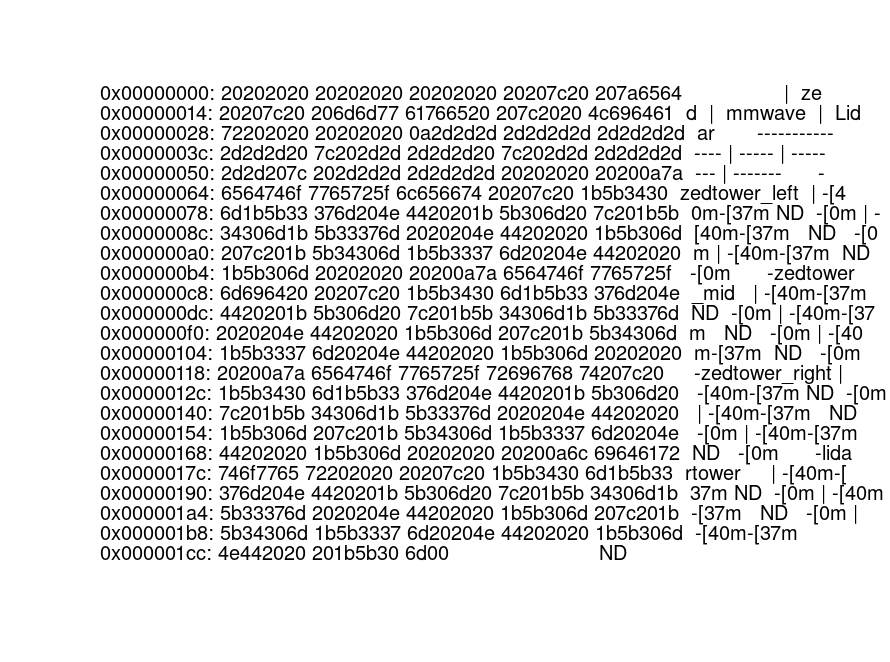
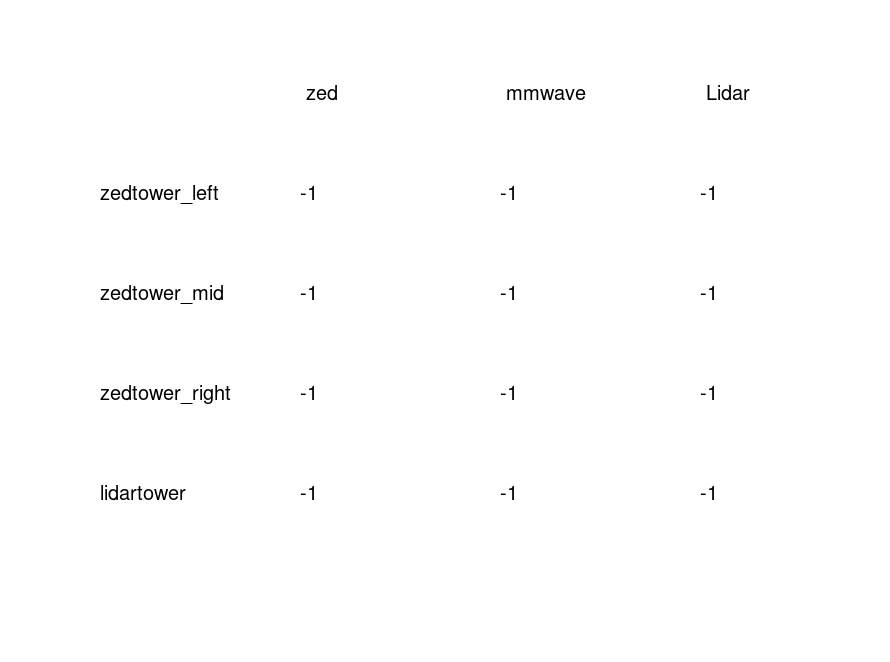
add table into img

Changed region(s): [[0.091, 0.1208, 1.0, 0.8459], [0.9404, 0.1511, 0.9708, 0.1813], [0.8191, 0.2115, 0.8494, 0.2417]]

diff --git a/health/wamv/command.py b/health/wamv/command.py
@@ -20,6 +20,7 @@ import threading
 
 from wand.image import Image
 from wand.drawing import Drawing
+#import cv2
 #import roslibpy
 #from utils.duckiepond_utils import find_duckiepond_devices_yaml, dp_print_boats
 
@@ -146,13 +147,34 @@ class WamvListener:
         print("ARG define command : dts health wamv")
         print()
         print(format_matrix(header, data, "{:^{}}", "{:<{}}", "{:>{}}", "\n", " | "))
+        #im = cv2.imread('black.jpg', 1)
+        #font = cv2.FONT_HERSHEY_SIMPLEX
+        #cv2.putText(im, 'Christmas', (10,450), font, 3, (0, 255, 0), 2, cv2.LINE_AA)
+        #cv2.imwrite('text.jpg', im)
         ny = Image(filename ='black.jpg')
         draw = Drawing()
         draw.font_size = 20
-        draw.text(100, 100, format_matrix(header, data, "{:^{}}", "{:<{}}", "{:>{}}", "      \n", " | "))
+        draw.text(300, 100, header[0])
+        draw.text(500, 100, header[1])
+        draw.text(700, 100, header[2])
+        draw.text(100, 200, sensortowers[0])
+        draw.text(300, 200, sensortower_status['zedtower_left'][0])
+        draw.text(500, 200, sensortower_status['zedtower_left'][1])
+        draw.text(700, 200, sensortower_status['zedtower_left'][2])
+        draw.text(100, 300, sensortowers[1])
+        draw.text(300, 300, sensortower_status['zedtower_mid'][0])
+        draw.text(500, 300, sensortower_status['zedtower_mid'][1])
+        draw.text(700, 300, sensortower_status['zedtower_mid'][2])
+        draw.text(100, 400, sensortowers[2])
+        draw.text(300, 400, sensortower_status['zedtower_right'][0])
+        draw.text(500, 400, sensortower_status['zedtower_right'][1])
+        draw.text(700, 400, sensortower_status['zedtower_right'][2])
+        draw.text(100, 500, sensortowers[3])
+        draw.text(300, 500, sensortower_status['lidartower'][0])
+        draw.text(500, 500, sensortower_status['lidartower'][1])
+        draw.text(700, 500, sensortower_status['lidartower'][2])
         draw(ny)
         ny.save(filename= 'text.jpg')
-
 
 class DTCommand(DTCommandAbs):
     @staticmethod
